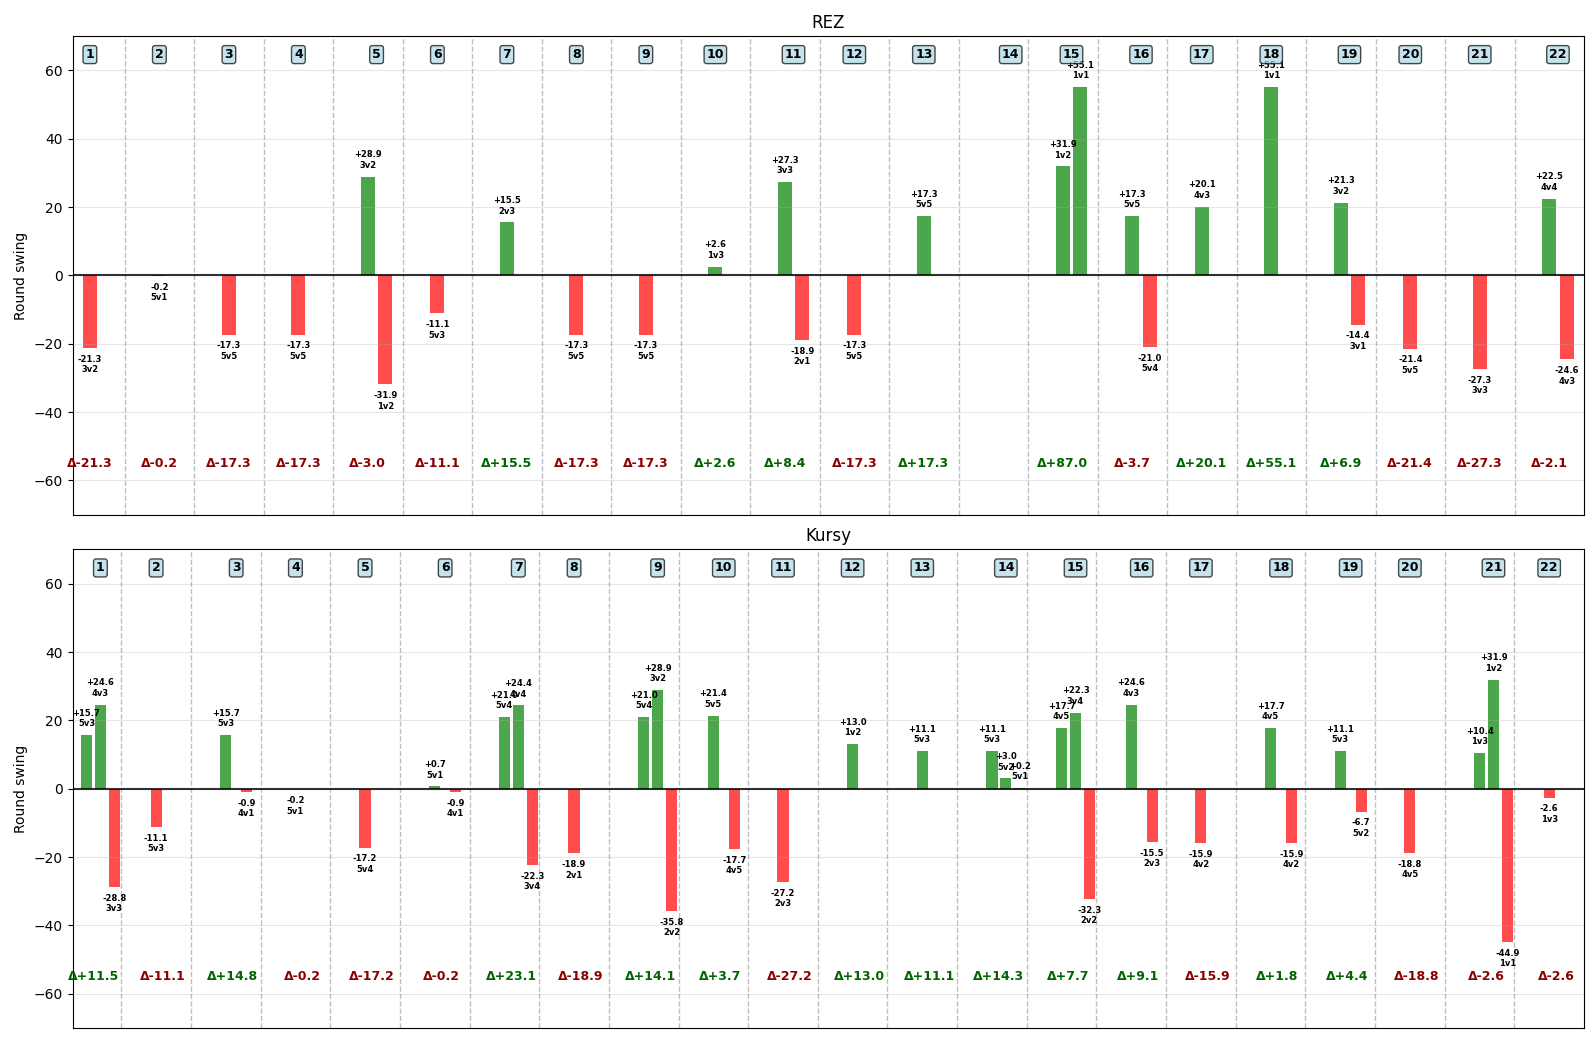
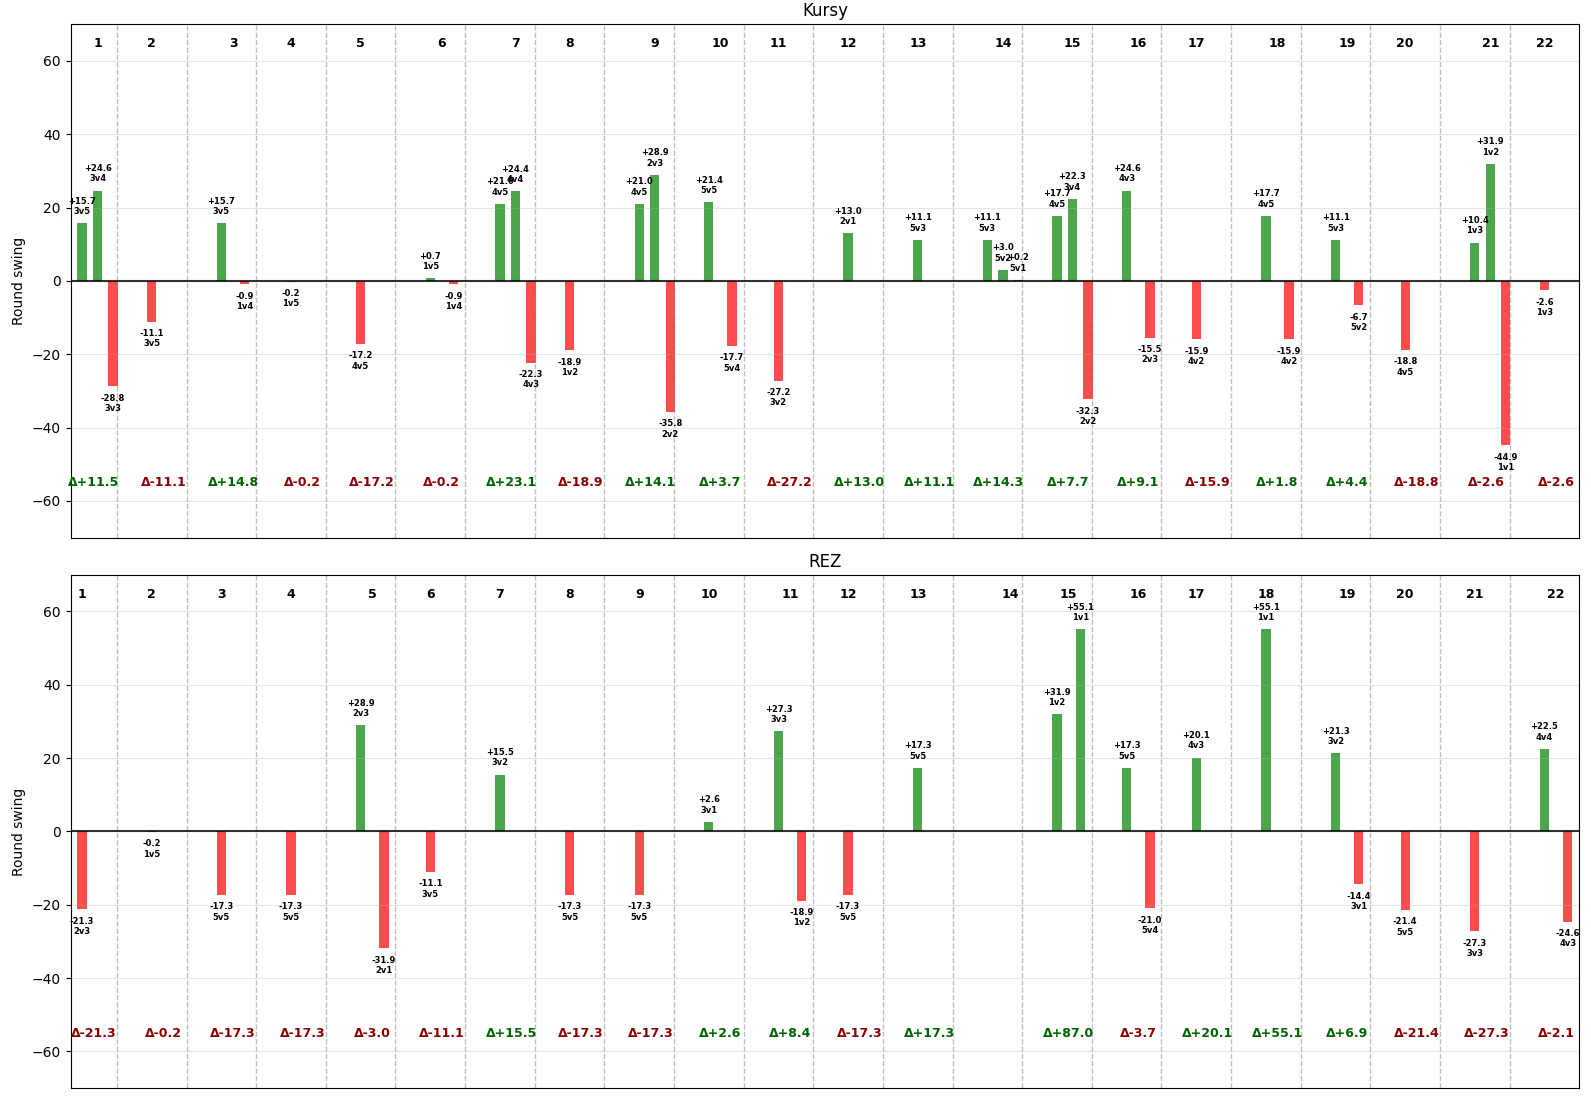
fixes

diff --git a/plotting.py b/plotting.py
@@ -6,6 +6,9 @@ import matplotlib.pyplot as plt
 import numpy as np
 from collections import defaultdict
 
+# Configuration - easily adjustable axis limits
+DEFAULT_AXIS_LIMIT = 70  # Default minimum axis limit for impact plots
+
 
 def plot_kill_death_analysis(stats_df, player_name):
     """
@@ -578,9 +581,7 @@ def plot_individual_impacts_by_round(dem, player_name):
             is_post_plant = (plant_tick is not None and kill_tick > plant_tick)
             
             # Current game state before this kill
-            game_state = f"{ct_alive}v{t_alive}"
-            if is_post_plant:
-                game_state += " post-plant"
+            game_state = ""
             
             # Calculate impact score for this kill
             ct_after = ct_alive - 1 if victim_side == 'ct' else ct_alive
@@ -589,6 +590,14 @@ def plot_individual_impacts_by_round(dem, player_name):
             
             # Record events for our target player
             if killer == player_name:
+                attacker_side = kill.get('attacker_side', '')
+                if attacker_side.lower() == 'ct':
+                    game_state = f"{ct_alive}v{t_alive}"
+                else:
+                    game_state = f"{t_alive}v{ct_alive}"
+                if is_post_plant:
+                    game_state += " post-plant"
+
                 round_impacts[round_num].append({
                     'type': 'kill',
                     'impact': impact,
@@ -598,6 +607,13 @@ def plot_individual_impacts_by_round(dem, player_name):
                 })
             
             if victim == player_name:
+                if victim_side.lower() == 'ct':
+                    game_state = f"{ct_alive}v{t_alive}"
+                else:
+                    game_state = f"{t_alive}v{ct_alive}"
+                if is_post_plant:
+                    game_state += " post-plant"
+
                 round_impacts[round_num].append({
                     'type': 'death',
                     'impact': -impact,  # Negative for deaths
@@ -713,20 +729,19 @@ def plot_individual_impacts_by_round(dem, player_name):
     ax.grid(True, alpha=0.3)
     ax.axhline(y=0, color='black', linestyle='-', alpha=0.8)
     
-    # Set symmetric y-axis with minimum span of -70 to +70
+    # Set symmetric y-axis with minimum span of -DEFAULT_AXIS_LIMIT to +DEFAULT_AXIS_LIMIT
     if impact_values:
         max_positive = max([val for val in impact_values if val > 0] + [0])
         max_negative = abs(min([val for val in impact_values if val < 0] + [0]))
-        max_abs = max(max_positive, max_negative, 70)  # Ensure minimum of 70
+        max_abs = max(max_positive, max_negative, DEFAULT_AXIS_LIMIT)  # Ensure minimum of DEFAULT_AXIS_LIMIT
         ax.set_ylim(-max_abs, max_abs)
     else:
-        ax.set_ylim(-70, 70)
+        ax.set_ylim(-DEFAULT_AXIS_LIMIT, DEFAULT_AXIS_LIMIT)
     
     # Add round labels at the top - now that y-limits are set
     for center_x, round_num, event_count in round_x_centers:
         ax.text(center_x, ax.get_ylim()[1] * 0.95, f'{round_num}', 
-                ha='center', va='top', fontsize=11, fontweight='bold',
-                bbox=dict(boxstyle="round,pad=0.3", facecolor='lightblue', alpha=0.7))
+                ha='center', va='top', fontsize=11, fontweight='bold')
     
     # Remove x-axis tick labels since we have round labels
     ax.set_xticks([])
@@ -832,10 +847,10 @@ def compare_individual_impacts(dem, player1_name, player2_name):
         if set_ylim and impact_values:
             max_positive = max([val for val in impact_values if val > 0] + [0])
             max_negative = abs(min([val for val in impact_values if val < 0] + [0]))
-            max_abs = max(max_positive, max_negative, 70)  # Minimum of 70, but allow growth
+            max_abs = max(max_positive, max_negative, DEFAULT_AXIS_LIMIT)  # Minimum of DEFAULT_AXIS_LIMIT, but allow growth
             ax.set_ylim(-max_abs, max_abs)
         elif set_ylim:
-            ax.set_ylim(-70, 70)
+            ax.set_ylim(-DEFAULT_AXIS_LIMIT, DEFAULT_AXIS_LIMIT)
         
         # Add impact value and game state labels on bars
         event_index = 0
@@ -914,7 +929,7 @@ def compare_individual_impacts(dem, player1_name, player2_name):
     if all_impact_values:
         max_positive = max([val for val in all_impact_values if val > 0] + [0])
         max_negative = abs(min([val for val in all_impact_values if val < 0] + [0]))
-        max_abs = max(max_positive, max_negative, 70)  # Ensure minimum of 70, but allow growth
+        max_abs = max(max_positive, max_negative, DEFAULT_AXIS_LIMIT)  # Ensure minimum of DEFAULT_AXIS_LIMIT, but allow growth
         
         print(f"DEBUG: Max positive: {max_positive}, Max negative: {max_negative}, Max abs: {max_abs}")
         
@@ -926,11 +941,10 @@ def compare_individual_impacts(dem, player1_name, player2_name):
         for round_centers, ax in [(round_centers1, ax1), (round_centers2, ax2)]:
             for center_x, round_num, event_count in round_centers:
                 ax.text(center_x, ax.get_ylim()[1] * 0.95, f'{round_num}', 
-                        ha='center', va='top', fontsize=10, fontweight='bold',
-                        bbox=dict(boxstyle="round,pad=0.3", facecolor='lightblue', alpha=0.7))
+                        ha='center', va='top', fontsize=10, fontweight='bold')
     else:
-        ax1.set_ylim(-70, 70)
-        ax2.set_ylim(-70, 70)
+        ax1.set_ylim(-DEFAULT_AXIS_LIMIT, DEFAULT_AXIS_LIMIT)
+        ax2.set_ylim(-DEFAULT_AXIS_LIMIT, DEFAULT_AXIS_LIMIT)
     
     # Adjust layout to accommodate top labels
     plt.subplots_adjust(top=0.88)
@@ -997,7 +1011,7 @@ def compare_individual_impacts_vertical(dem, player1_name, player2_name):
             round_impacts[event['round']].append(event)
         
         # Calculate maximum events per round to determine spacing
-        max_events_per_round = max(len(round_impacts.get(r, [])) for r in all_rounds)
+        max_events_per_round = 4#max(len(round_impacts.get(r, [])) for r in all_rounds)
         if max_events_per_round == 0:
             max_events_per_round = 1
         
@@ -1084,10 +1098,10 @@ def compare_individual_impacts_vertical(dem, player1_name, player2_name):
         if set_ylim and impact_values:
             max_positive = max([val for val in impact_values if val > 0] + [0])
             max_negative = abs(min([val for val in impact_values if val < 0] + [0]))
-            max_abs = max(max_positive, max_negative, 70)  # Minimum of 70, but allow growth
+            max_abs = max(max_positive, max_negative, DEFAULT_AXIS_LIMIT)  # Minimum of DEFAULT_AXIS_LIMIT, but allow growth
             ax.set_ylim(-max_abs, max_abs)
         elif set_ylim:
-            ax.set_ylim(-70, 70)
+            ax.set_ylim(-DEFAULT_AXIS_LIMIT, DEFAULT_AXIS_LIMIT)
         
         ax.set_ylabel('Round swing')
         ax.set_title(f'{player_name}')
@@ -1112,7 +1126,7 @@ def compare_individual_impacts_vertical(dem, player1_name, player2_name):
     if all_impact_values:
         max_positive = max([val for val in all_impact_values if val > 0] + [0])
         max_negative = abs(min([val for val in all_impact_values if val < 0] + [0]))
-        max_abs = max(max_positive, max_negative, 70)  # Ensure minimum of 70, but allow growth
+        max_abs = max(max_positive, max_negative, DEFAULT_AXIS_LIMIT)  # Ensure minimum of DEFAULT_AXIS_LIMIT, but allow growth
         
         print(f"DEBUG: Max positive: {max_positive}, Max negative: {max_negative}, Max abs: {max_abs}")
         
@@ -1124,11 +1138,10 @@ def compare_individual_impacts_vertical(dem, player1_name, player2_name):
         for round_centers, ax in [(round_centers1, ax1), (round_centers2, ax2)]:
             for center_x, round_num, event_count in round_centers:
                 ax.text(center_x, ax.get_ylim()[1] * 0.95, f'{round_num}', 
-                        ha='center', va='top', fontsize=9, fontweight='bold',
-                        bbox=dict(boxstyle="round,pad=0.2", facecolor='lightblue', alpha=0.7))
+                        ha='center', va='top', fontsize=9, fontweight='bold')
     else:
-        ax1.set_ylim(-70, 70)
-        ax2.set_ylim(-70, 70)
+        ax1.set_ylim(-DEFAULT_AXIS_LIMIT, DEFAULT_AXIS_LIMIT)
+        ax2.set_ylim(-DEFAULT_AXIS_LIMIT, DEFAULT_AXIS_LIMIT)
     
     # Adjust layout to accommodate top labels for vertical layout
     plt.subplots_adjust(top=0.93, hspace=0.4)
@@ -1154,7 +1167,6 @@ def compare_individual_impacts_vertical(dem, player1_name, player2_name):
     print(f"\n🏆 Winner: {player1_name if total_impact1 > total_impact2 else player2_name}")
     print(f"Impact Difference: {abs(total_impact1 - total_impact2):.1f}")
     
-    plt.show()
 
 
 
@@ -1240,9 +1252,7 @@ def get_individual_impacts_data(dem, player_name):
                 weapon_category = "sniper"
             
             # Current game state before this kill
-            game_state = f"{ct_alive}v{t_alive}"
-            if is_post_plant:
-                game_state += " post-plant"
+            game_state = ""
             
             # Calculate impact score for this kill
             ct_after = ct_alive - 1 if victim_side == 'ct' else ct_alive
@@ -1251,6 +1261,14 @@ def get_individual_impacts_data(dem, player_name):
             
             # Record events for our target player
             if killer == player_name:
+                attacker_side = kill.get('attacker_side', '')
+                if attacker_side.lower() == 'ct':
+                    game_state = f"{ct_alive}v{t_alive}"
+                else:
+                    game_state = f"{t_alive}v{ct_alive}"
+                if is_post_plant:
+                    game_state += " post-plant"
+
                 individual_impacts.append({
                     'event_id': event_counter,
                     'round': round_num,
@@ -1265,6 +1283,15 @@ def get_individual_impacts_data(dem, player_name):
                 event_counter += 1
             
             if victim == player_name:
+                if round_num == 5:
+                    pass
+                if victim_side.lower() == 'ct':
+                    game_state = f"{ct_alive}v{t_alive}"
+                else:
+                    game_state = f"{t_alive}v{ct_alive}"
+                if is_post_plant:
+                    game_state += " post-plant"
+
                 individual_impacts.append({
                     'event_id': event_counter,
                     'round': round_num,
@@ -1446,4 +1473,3 @@ def plot_all_players_stats_table(dem):
         winner = "Team 1" if team1_impact > team2_impact else "Team 2"
         print(f"🏆 Impact Winner: {winner}")
     
-    plt.show()

diff --git a/main.py b/main.py
@@ -15,11 +15,11 @@ from cache_utils import load_demo, clear_cache
 # CONFIGURATION - EDIT THESE VALUES
 # ================================
 DEMO_FILE = "vitality-vs-gamer-legion-m1-train.dem"
-PLAYER_TO_ANALYZE = "Kursy"
+PLAYER_TO_ANALYZE = "REZ"
 
 # Optional: Set these for player comparison (leave as None to skip comparison)
-COMPARE_PLAYER1 = "REZ"  # e.g., "REZ"
-COMPARE_PLAYER2 = "Kursy"  # e.g., "Kursy"
+COMPARE_PLAYER1 = "Kursy"  # e.g., "Kursy"
+COMPARE_PLAYER2 = "REZ"  # e.g., "REZ"
 
 # Cache settings
 USE_CACHE = True  # Set to False to disable caching
@@ -64,10 +64,10 @@ def main():
         
         # Generate plots
         print(f"\n📊 Generating visualizations for {PLAYER_TO_ANALYZE}...")
-        plot_kill_death_analysis(stats, PLAYER_TO_ANALYZE)
-        plot_positive_negative_impact(stats, PLAYER_TO_ANALYZE)
-        plot_impact_difference_per_round(stats, PLAYER_TO_ANALYZE)
-        plot_individual_impacts_by_round(dem, PLAYER_TO_ANALYZE)
+        # plot_kill_death_analysis(stats, PLAYER_TO_ANALYZE)
+        # plot_positive_negative_impact(stats, PLAYER_TO_ANALYZE)
+        # plot_impact_difference_per_round(stats, PLAYER_TO_ANALYZE)
+        # plot_individual_impacts_by_round(dem, PLAYER_TO_ANALYZE)
         
     else:
         print(f"❌ No data found for player: {PLAYER_TO_ANALYZE}")
@@ -77,11 +77,11 @@ def main():
     print("\n" + "="*80)
     print("📊 GENERATING ALL PLAYERS STATISTICS TABLE")
     print("="*80)
-    plot_all_players_stats_table(dem)
+    # plot_all_players_stats_table(dem)
     
     # Display probability scenarios table
     print("\n" + "="*80)
-    create_probability_scenarios_table()
+    # create_probability_scenarios_table()
     
     # Optional player comparison
     if COMPARE_PLAYER1 and COMPARE_PLAYER2:

diff --git a/analysis.py b/analysis.py
@@ -124,6 +124,7 @@ def get_player_kill_death_analysis(dem, player_name, debug=False):
             victim_name = kill.get('victim_name', '')
             attacker_side = kill.get('attacker_side', '')
             victim_side = kill.get('victim_side', '')
+
             
             # Check if bomb is planted at time of this kill
             is_post_plant = (round_stats[round_num]['bomb_planted'] and 
@@ -144,7 +145,11 @@ def get_player_kill_death_analysis(dem, player_name, debug=False):
             
             # Record kills for our target player
             if attacker_name == player_name:
-                game_state = f"{ct_alive} v {t_alive}"
+                if attacker_side == 'ct':
+                    game_state = f"{ct_alive} v {t_alive}"
+                else:
+                    game_state = f"{t_alive} v {ct_alive}"
+                
                 if is_post_plant:
                     game_state += " post plant"
                 
@@ -156,7 +161,11 @@ def get_player_kill_death_analysis(dem, player_name, debug=False):
             
             # Record deaths for our target player
             if victim_name == player_name:
-                game_state = f"{ct_alive} v {t_alive}"
+                if victim_side == 'ct':
+                    game_state = f"{ct_alive} v {t_alive}"
+                else:
+                    game_state = f"{t_alive} v {ct_alive}"
+
                 if is_post_plant:
                     game_state += " post plant"
                 

diff --git a/why_round_swing_makes_sense.md b/why_round_swing_makes_sense.md
@@ -1,17 +1,19 @@
-### Round swing (and thus Rating 3.0) is grievly misunderstood - lets analyze it deeper
+### Round swing (and thus Rating 3.0) is misunderstood - lets analyze it deeper
+
+##### The argument for Round Swing
 
 In the start of the round, its roughly 50-50 win probability (given equal equipment value).
 If you single handedly make the first kill, you shift the probability to your teams advantage - lets say up to 65%. Therefore you get credited that difference of 15%. This is intuitive and everybody is happy.
 
-But lets take a more counter intuitive example. Say you are down 1v5, and only have a 1% probability of winning the round. Then you make some awesome 400 IQ play and manage to make it down to a 1v1. Now we are roughly back to 50-50 again (depending on context). This means that so far in the round, you have earned a whopping 49% round swing. But - you die to the last man. That means -50%, and you end the round with -1%. This feels unfair, right? You might have had 400+ damage output this round and you still end with a minus swing rating? Does this really make sense??
+But lets take a more counter-intuitive example. Say you are down 1v5, and only have a 1% probability of winning the round. Then you make some awesome 200 IQ play and manage to make it down to a 1v1. Now we are roughly back to 50-50 again. This means that so far in the round, you have earned a whopping +49% round swing. But - you die to the last man. That means -50%, and you end the round with -1%. This feels unfair, right? You might have had **400+ damage** output this round and you still end with a minus swing rating? Does this really make sense??
 
-Well, look at it this way: from the games perspective, you still lost the round. Winning the match means winning rounds. If not factoring in economic or perhaps some phycological damage (lets say the enemies had 16k before) it literally does not make a difference to the end match outcome whether you had died directly or killing 4 people before going down. The enemies get a point on the board and you get none either way. **The objective of the game is not kills - its only a means to an end**. And round swing is an excellent way of showing that.
+Well, look at it this way: from the games perspective, you lost the round. Winning the match means winning rounds. If not factoring in economic impact (lets say the enemies had 16k before) it literally does not make a difference to the end match outcome whether you had died directly or killing 4 people before going down. The enemies get a point on the board and you get none either way. **The objective of the game is not kills - its only a means to an end**. And round swing is an excellent way of highlighting that.
 
-1v1's are therefore not overpowered - they are rather showing how incredibly important these situations are for the outcome of the round. Once you get to that point, its all or nothing on the table and that is completely reasonable. It's high risk - high reward. Opening kills are lower reward but also lower risk. Now, its also very important that the percentages are fair - I will discuss this more later.
+I would even argue that 1v1's are therefore not "overpowered" - they are rather showing how incredibly important these situations are for the outcome of the game. Once you get to that point, its all or nothing on the table and that is completely reasonable. It's high risk - high reward, in contrast to opening kills which are lower reward but also lower risk. Now, its also very important that the percentages are fair - I will discuss this more later.
 
-Therefore, you simply cannot look at the scoreboard at the end of the match and say "But how can player X have 1.02 in rating while going 25-15? This rating system is broken!!" It is completely dependent on context of the kills, and that is a feature, not a bug.
+Therefore, you simply cannot look at the scoreboard at the end of the match and say "But how can player X have 1.02 in rating while going 25-15 with 120 ADR? This rating system is broken!!" It is completely dependent on context of the kills which will have to be analyzed more closely. And that is a feature, not a bug.
 
-Actually, lets do just that. Yesterday's game between Vitality and Gamer Legion on train got a very unintuitive scoreboard. The casters even noted it and felt that it was unfair to Kursy. He got a 0.89 rating, -2.98% swing while top-fragging at 20 kills - 8 more than REZ at 1.01 rating and +2.22% swing.
+Actually, lets do just that. Yesterday's game between Vitality and Gamer Legion on train got a very unintuitive scoreboard. The casters even noted it and felt that it was unfair to Kursy. He got a 0.83 rating, -2.98% swing while top-fragging at 20 kills - 8 more than REZ at 1.01 rating and +2.22% swing.
 
 ![Scoreboard](scoreboard.png)
 
@@ -23,6 +25,25 @@ The following graph shows their individual round swing contributions round by ro
 
 ![Comparison](comparison.png)
 
-Thi
+Looking at Kursy, every single round he made a big positive contribution, he also died closely after in an important situation. He still ended those rounds with a positive delta, but over the course of the game, it does not add up enough. And he had one 3k round, but these were 5v3 -> 5v0 which only counts as 14.3% in total and was not as important as it might seem.
+
+Contrast this to REZ. While having significantly less kills overall, the kills had more impact on the ultimate outcome, all while having less impactful deaths. Most notably a 13% conversion into a round win in round 15 (giving him +87%), and a 1v1 clutch in round 18 (+55.1%). These two rounds gave GL two rounds on the board - contributing heavily to the ultimate goal of counter-strike - winning rounds.
 
 So the results from Round Swing can be brutal. **But not because the metric itself is brutal - but because the objective of Counter-Strike can be brutal.**
+
+#### Adressing the underlying difficulty with round swing: Accurate percentages and their fair distribution within the team.
+
+Consider the following 1v1 scenario:
+
+`Bomb planted with 15 seconds left, T position unknown, CT no kit and position known.`
+
+This is clearly **not** a 50-50 situation, but a strong edge for the T. Therefore, should the T win, he should **not** get a +50% reward and the CT should **not** get -50%.
+
+So its clearly important with accurate percentages to give a fair impact for each player. This is a fitting job for a machine learning model, since simply looking at number of players alive is too little information. Ideally (as talked about in the video) the player positions would be available aswell in order to make it even more accurate.
+
+The other difficulty is the contribution of both the positives and the negatives within the team. For example, the HLTV implementation are taking assists and flash assists into account. If you help your teammate get a kill, you get a part of the credit for the extra swing percentage reward. As it is implemented now, rules are set manually. Like the trading rule: is the enemy that just killed you killed within 5 seconds, consider the kill as a trade and give you some of the credit. The obvious weakness here is the arbitrary parameter of 5 seconds. This
+
+Today's machine learing models are very mature and relatively easy to get started with (but hard to master, admittedly), and I say this as a Data Scientist myself. I'm honestly a little tempted to train one myself. But I'm going too far now, the main point is that **Round Swing is the ultimate rating when it comes to the objective of Counter-Strike**
+given that you feed it with accurate information. Any current drawback or weakness **is not a weakness of the method itself, but rather a symptom of the inaccurasies in the information it gets fed**.
+
+And if you want to know which player simply fragged the most, you have already stats for that. Everybody happy!
